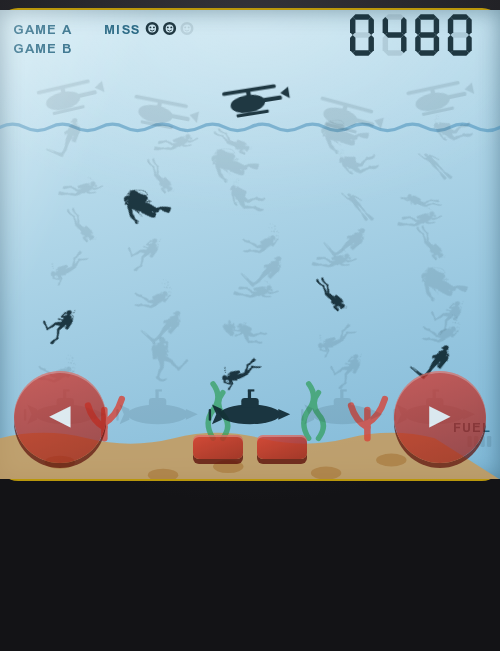
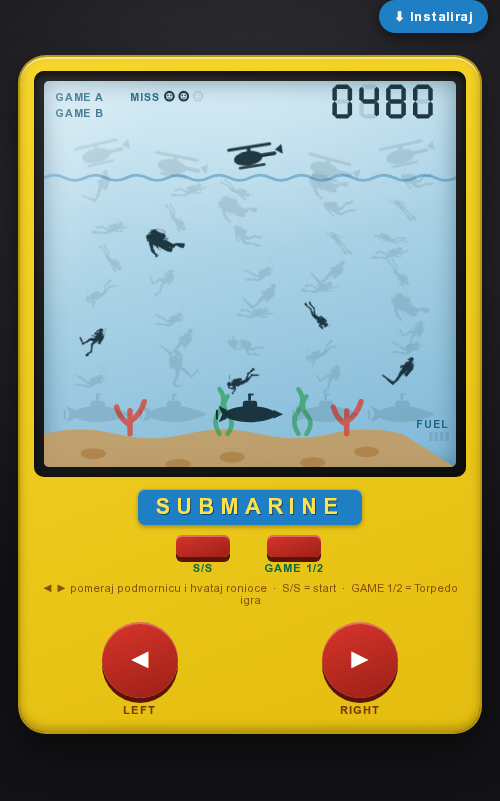
Mobilni rescue kao torpedo (žuti okvir, dugmad na okviru) + install dugme
- index.html: undo overlay; na ≤600px žuto telo, ekran preko cele širine,
  bez crnih hvataljki/ukrasa, LEFT/RIGHT i S/S/GAME na žutom okviru
- install dugme (PWA beforeinstallprompt) — index.html i torpedo.html
- service-worker: CACHE_VERSION v4
- README: ažurirana napomena + nov mobilni screenshot

diff --git a/index.html b/index.html
@@ -16,6 +16,12 @@
 <link rel="icon" href="favicon.svg" type="image/svg+xml">
 <link rel="icon" href="favicon-96x96.png" sizes="96x96" type="image/png">
 <link rel="apple-touch-icon" sizes="180x180" href="apple-touch-icon.png">
+<script>
+/* uhvati install prompt rano i prikaži dugme */
+window._dip=null;
+window.addEventListener("beforeinstallprompt",function(e){e.preventDefault();window._dip=e;
+  var b=document.getElementById("installBtn"); if(b)b.hidden=false;});
+</script>
 <style>
   :root{
     --body-1:#f6d62a;  --body-2:#e3bd0f;
@@ -93,35 +99,42 @@
   .glabel{color:#7a3a06;font:700 11px Arial;margin-top:6px;letter-spacing:1px;text-align:center;}
   .hint{text-align:center;font-size:11px;color:#7a3a06;opacity:.85;margin-top:10px;}
 
+  /* PWA install dugme (vidljivo samo kad je instalacija moguća) */
+  .install-fab{position:fixed;top:12px;right:12px;z-index:50;border:none;cursor:pointer;
+    background:#1f7fc4;color:#fff;font:700 13px Arial;letter-spacing:.4px;
+    padding:9px 15px;border-radius:20px;box-shadow:0 4px 14px rgba(0,0,0,.45);
+    -webkit-tap-highlight-color:transparent;}
+  .install-fab:active{transform:translateY(1px);}
+  .install-fab[hidden]{display:none;}
+
   /* ---------- MOBILNI (uspravni telefon): bez bočnih ukrasa, ekran preko cele širine ---------- */
-  /* ---------- MOBILNI: ekran preko cele širine, kontrole POLUPROVIDNE PREKO igrice (kao konzola) ---------- */
+  /* ---------- MOBILNI: uspravno žuto telo (kao torpedo) — bez crnih hvataljki/ukrasa,
+       LEFT/RIGHT na žutom okviru ispod ekrana ---------- */
   @media (max-width:600px){
     html,body{max-width:100%;overflow-x:hidden;}
-    body{padding:0;}
-    .device{position:relative;display:block;width:100%;padding:0;border-radius:0;
-      background:transparent;box-shadow:none;}
-    .decals,.notes,.banner,.hint{display:none;}     /* bez ukrasa/natpisa — čist ekran */
-    .center{position:relative;margin:0;padding:0;}  /* visina = ekran */
-    .screen-frame{padding:0;border-radius:0;box-shadow:none;}
-    .screen{border-radius:0;}
-    .glabel{display:none;}
-    /* LEFT / RIGHT — veliki poluprovidni preko donjih uglova ekrana */
-    .grip{position:absolute;bottom:calc(16px + env(safe-area-inset-bottom));z-index:6;
-      background:transparent;box-shadow:none;padding:0;width:auto;min-width:0;}
-    .device>.grip:first-of-type{left:14px;}
-    .device>.grip:last-of-type{right:14px;}
-    .rbtn.round{width:clamp(64px,20vw,92px);height:clamp(64px,20vw,92px);font-size:30px;opacity:.72;}
-    .rbtn.round:active{opacity:.95;}
-    /* S/S + GAME 1/2 — male poluprovidne preko dna (sredina) */
-    .bars{position:absolute;bottom:calc(20px + env(safe-area-inset-bottom));left:50%;
-      transform:translateX(-50%);gap:14px;margin:0;z-index:6;}
-    .bartn small{display:none;}
-    .rbtn.pill{width:50px;height:24px;opacity:.8;}
-    .rbtn.pill:active{opacity:.97;}
+    body{padding:10px;}
+    /* žuto telo igrice; ekran preko cele širine (red 1), LEFT|RIGHT na okviru (red 2) */
+    .device{display:flex;flex-wrap:wrap;flex-direction:row;align-items:center;
+      width:100%;max-width:460px;margin:0 auto;padding:14px 14px 16px;border-radius:26px;gap:8px;
+      background:linear-gradient(160deg,var(--body-1),var(--body-2));
+      box-shadow:inset 0 2px 0 rgba(255,255,255,.5), inset 0 -4px 10px rgba(0,0,0,.25),
+        0 0 0 2px #b9970c, 0 18px 40px rgba(0,0,0,.55);}
+    .decals,.notes{display:none;}                 /* bez ukrasnih sličica/nota */
+    .center{flex:0 0 100%;min-width:0;order:0;margin:0;padding:0;
+      background:transparent;box-shadow:none;}    /* ekran preko cele širine */
+    .screen-frame{padding:10px;}                   /* tamni okvir ekrana ostaje (kao torpedo) */
+    .banner{margin-top:12px;}
+    .bars{margin-top:10px;gap:34px;}
+    .hint{font-size:11px;margin-top:8px;overflow-wrap:anywhere;}
+    /* LEFT / RIGHT — na žutom okviru (bez crnih hvataljki), jedno levo jedno desno */
+    .grip{order:1;flex:1;min-width:0;background:transparent;box-shadow:none;border-radius:0;
+      flex-direction:row;justify-content:center;align-items:center;padding:8px 4px 0;}
+    .rbtn.round{width:clamp(58px,16vw,76px);height:clamp(58px,16vw,76px);font-size:24px;}
   }
 </style>
 </head>
 <body>
+  <button id="installBtn" class="install-fab" hidden>⬇ Instaliraj</button>
   <div class="device">
     <div class="grip">
       <div class="decals"><span>🚁</span><span>🏊</span><span>🐠</span><span>🪸</span><span>🌿</span></div>
@@ -385,6 +398,21 @@ setMsg("PRESS START",true);
 /* ===== PWA: service worker ===== */
 if("serviceWorker" in navigator)
   window.addEventListener("load",()=>navigator.serviceWorker.register("service-worker.js",{updateViaCache:"none"}).catch(()=>{}));
+
+/* ===== PWA: install dugme ===== */
+(function(){
+  const btn=document.getElementById("installBtn"); if(!btn)return;
+  const installed = matchMedia("(display-mode:standalone)").matches || navigator.standalone;
+  if(installed){ btn.hidden=true; return; }
+  if(window._dip) btn.hidden=false;                 // event već stigao (rana registracija)
+  btn.addEventListener("click",async()=>{
+    if(!window._dip)return;
+    window._dip.prompt();
+    try{ await window._dip.userChoice; }catch(e){}
+    window._dip=null; btn.hidden=true;
+  });
+  window.addEventListener("appinstalled",()=>{ btn.hidden=true; window._dip=null; });
+})();
 </script>
 </body>
 </html>

diff --git a/torpedo.html b/torpedo.html
@@ -10,6 +10,11 @@
 <link rel="icon" href="favicon.svg" type="image/svg+xml">
 <link rel="icon" href="favicon-96x96.png" sizes="96x96" type="image/png">
 <link rel="apple-touch-icon" sizes="180x180" href="apple-touch-icon.png">
+<script>
+window._dip=null;
+window.addEventListener("beforeinstallprompt",function(e){e.preventDefault();window._dip=e;
+  var b=document.getElementById("installBtn"); if(b)b.hidden=false;});
+</script>
 <style>
   :root{
     /* Jedine boje u celoj igri: kuciste + LCD pozadina */
@@ -127,9 +132,16 @@
   .speaker i{width:6px;height:6px;border-radius:50%;background:rgba(0,0,0,.35);
     box-shadow:inset 0 1px 1px rgba(0,0,0,.6);}
   .hint{text-align:center;font-size:11px;color:#4a3a0e;opacity:.8;margin-top:10px;}
+  .install-fab{position:fixed;top:12px;right:12px;z-index:50;border:none;cursor:pointer;
+    background:#1f7fc4;color:#fff;font:700 13px Arial;letter-spacing:.4px;
+    padding:9px 15px;border-radius:20px;box-shadow:0 4px 14px rgba(0,0,0,.45);
+    -webkit-tap-highlight-color:transparent;}
+  .install-fab:active{transform:translateY(1px);}
+  .install-fab[hidden]{display:none;}
 </style>
 </head>
 <body>
+  <button id="installBtn" class="install-fab" hidden>⬇ Instaliraj</button>
   <div class="handheld">
     <div class="brand"><b>Deep&nbsp;Rescue</b><span>LCD-37 • GAME &amp; TIME</span></div>
 
@@ -431,6 +443,20 @@ setMsg("PRESS START",true);
 /* ===== PWA: service worker ===== */
 if("serviceWorker" in navigator)
   window.addEventListener("load",()=>navigator.serviceWorker.register("service-worker.js",{updateViaCache:"none"}).catch(()=>{}));
+
+/* ===== PWA: install dugme ===== */
+(function(){
+  const btn=document.getElementById("installBtn"); if(!btn)return;
+  if(matchMedia("(display-mode:standalone)").matches || navigator.standalone){ btn.hidden=true; return; }
+  if(window._dip) btn.hidden=false;
+  btn.addEventListener("click",async()=>{
+    if(!window._dip)return;
+    window._dip.prompt();
+    try{ await window._dip.userChoice; }catch(e){}
+    window._dip=null; btn.hidden=true;
+  });
+  window.addEventListener("appinstalled",()=>{ btn.hidden=true; window._dip=null; });
+})();
 </script>
 </body>
 </html>

diff --git a/service-worker.js b/service-worker.js
@@ -1,6 +1,6 @@
 // Service worker za Retro LCD — Submarine.
 // Povecaj CACHE_VERSION na svaku promenu shell-a.
-const CACHE_VERSION = 'v3';
+const CACHE_VERSION = 'v4';
 const CACHE_NAME = `retrogames-${CACHE_VERSION}`;
 
 const SCOPE = new URL(self.registration.scope).pathname;

diff --git a/README.md b/README.md
@@ -20,7 +20,7 @@ Može da se **instalira kao aplikacija** (PWA) i radi offline.
 |:---:|:---:|
 | ![rescue](screenshots/rescue.png) | ![torpedo](screenshots/torpedo.png) |
 
-**Mobilni (uspravni) prikaz** — responsive: pun ekran sa **poluprovidnim touch kontrolama preko igrice** (kao prava konzola) — LEFT/RIGHT u donjim uglovima, S/S i GAME 1/2 dole na sredini:
+**Mobilni (uspravni) prikaz** — responsive: žuto telo igrice (kao torpedo), ekran preko cele širine, **bez bočnih ukrasa i crnih hvataljki**; LEFT/RIGHT i S/S/GAME 1/2 su dugmad **na okviru** ispod ekrana. Gore-desno je **PWA „⬇ Instaliraj"** dugme (vidljivo kad browser dozvoli instalaciju):
 
 <p align="center"><img src="screenshots/rescue-mobile.png" width="240" alt="rescue mobilni"></p>
 